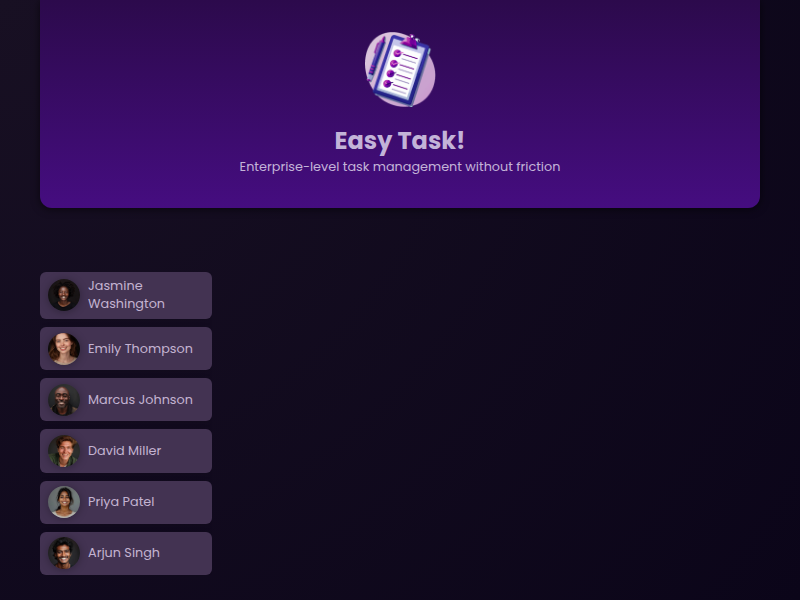
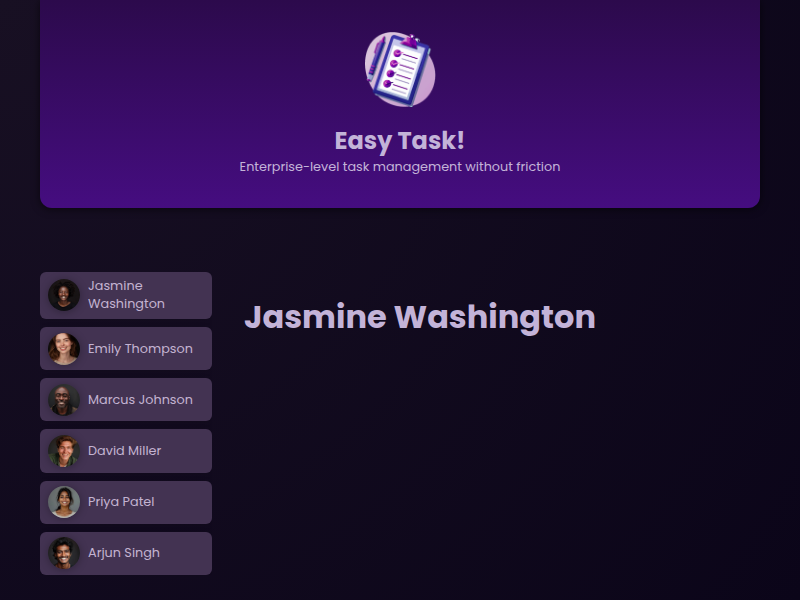
tasks setup

Changed region(s): [[0.3125, 0.51, 0.75, 0.57]]

diff --git a/src/app/app.component.html b/src/app/app.component.html
@@ -6,7 +6,7 @@
         [id]="users[0].id"
         [name]="users[0].name"
         [avatar]="users[0].avatar"
-        (select)="onSelectShowTask($event)"
+        (select)="onSelectUser($event)"
       />
     </li>
     <li>
@@ -14,7 +14,7 @@
         [id]="users[1].id"
         [name]="users[1].name"
         [avatar]="users[1].avatar"
-        (select)="onSelectShowTask($event)"
+        (select)="onSelectUser($event)"
       />
     </li>
     <li>
@@ -22,7 +22,7 @@
         [id]="users[2].id"
         [name]="users[2].name"
         [avatar]="users[2].avatar"
-        (select)="onSelectShowTask($event)"
+        (select)="onSelectUser($event)"
       />
     </li>
     <li>
@@ -30,7 +30,7 @@
         [id]="users[3].id"
         [name]="users[3].name"
         [avatar]="users[3].avatar"
-        (select)="onSelectShowTask($event)"
+        (select)="onSelectUser($event)"
       />
     </li>
     <li>
@@ -38,7 +38,7 @@
         [id]="users[4].id"
         [name]="users[4].name"
         [avatar]="users[4].avatar"
-        (select)="onSelectShowTask($event)"
+        (select)="onSelectUser($event)"
       />
     </li>
     <li>
@@ -46,8 +46,9 @@
         [id]="users[5].id"
         [name]="users[5].name"
         [avatar]="users[5].avatar"
-        (select)="onSelectShowTask($event)"
+        (select)="onSelectUser($event)"
       />
     </li>
   </ul>
+  <app-tasks [name]="selectedUser.name"></app-tasks>
 </main>

diff --git a/src/app/app.component.ts b/src/app/app.component.ts
@@ -1,19 +1,24 @@
 import { Component } from '@angular/core';
 import { HeaderComponent } from './header/header.component';
 import { UserComponent } from './user/user.component';
-
 import { DUMMY_USERS } from './dummy-users';
+import { TasksComponent } from './tasks/tasks.component';
+
 @Component({
   selector: 'app-root',
   standalone: true,
-  imports: [HeaderComponent, UserComponent],
+  imports: [HeaderComponent, UserComponent, TasksComponent],
   templateUrl: './app.component.html',
   styleUrl: './app.component.css',
 })
 export class AppComponent {
   users = DUMMY_USERS;
+  selectedUserId = 'u1';
 
-  onSelectShowTask(id: string) {
-    console.log('Selected User with Id: ' + id);
+  get selectedUser() {
+    return this.users.find((user) => this.selectedUserId === user.id)!;
+  }
+  onSelectUser(id: string) {
+    this.selectedUserId = id;
   }
 }

diff --git a/src/app/user/user.component.ts b/src/app/user/user.component.ts
@@ -1,4 +1,4 @@
-import { Component, Input, output } from '@angular/core';
+import { Component, EventEmitter, Input, Output } from '@angular/core';
 
 @Component({
   selector: 'app-user',
@@ -11,8 +11,7 @@ export class UserComponent {
   @Input({ required: true }) id!: string;
   @Input({ required: true }) avatar!: string;
   @Input({ required: true }) name!: string;
-  //@Output() select = new EventEmitter();
-  select = output<string>();
+  @Output() select = new EventEmitter();
 
   get imagePath() {
     return 'assets/users/' + this.avatar;

diff --git a/src/app/tasks/tasks.component.ts b/src/app/tasks/tasks.component.ts
@@ -1,0 +1,12 @@
+import { Component, Input } from '@angular/core';
+
+@Component({
+  selector: 'app-tasks',
+  standalone: true,
+  imports: [],
+  templateUrl: './tasks.component.html',
+  styleUrl: './tasks.component.css',
+})
+export class TasksComponent {
+  @Input() name!: string;
+}

diff --git a/src/app/tasks/tasks.component.html b/src/app/tasks/tasks.component.html
@@ -1,0 +1,1 @@
+<h1>{{ name }}</h1>

diff --git a/README.md b/README.md
@@ -1,14 +1,24 @@
-# **Commit: Eventos Personalizados con señales**
+# **Commit: Tasks SetUp **
 
 ## Objetivo: Enseñar el componente de las tareas cuando se clicke en un user
 
-- Sustituye la linea de @Output por: select = output<string>() e importalo;
-- Vuelve a dejarlo como estaba para el siguiente commit
+en App.component.ts:
 
-la pagina no deberia haber cambiado nada
+- cambia el nombre de onSelectTask por onSelectUser
+- crea la propiedad selectedUserId = 'u1'; (para inicializar, relacionado con "!" del find)
+- cambia el metodo onSelectTask para que simplemente asigne el id recibido, a la nueva
+  propiedad
+- añade un nuevo metodo:
+  get selectedUser() {
+  return this.users.find((user) => this.selectedUserId === user.id)!;
+  }
+- crea un componente llamado tasks
+- añade <app-tasks [name]="selectedUser"> en app.component.html dentro del <main>, abajo del todo
+- Construye un componente llamado task Que reciba como Input() una propiedad name
+- muestra en tasks.component.html name con string interpolation
 
 ## VISUALIZACION
 
 - Abre localhost:4200 en el navegador deberias ver:
-  ![Output_Eventos con señales](./htmlOutput.png)
-  al abrir la consola de desarrollo y clickar en los usuarios deberia salir el id
+  ![Tasks_SetUp](./htmlOutput.png)
+  cada vez que pulsas en un usuario deberias ver como cambia el nombre
